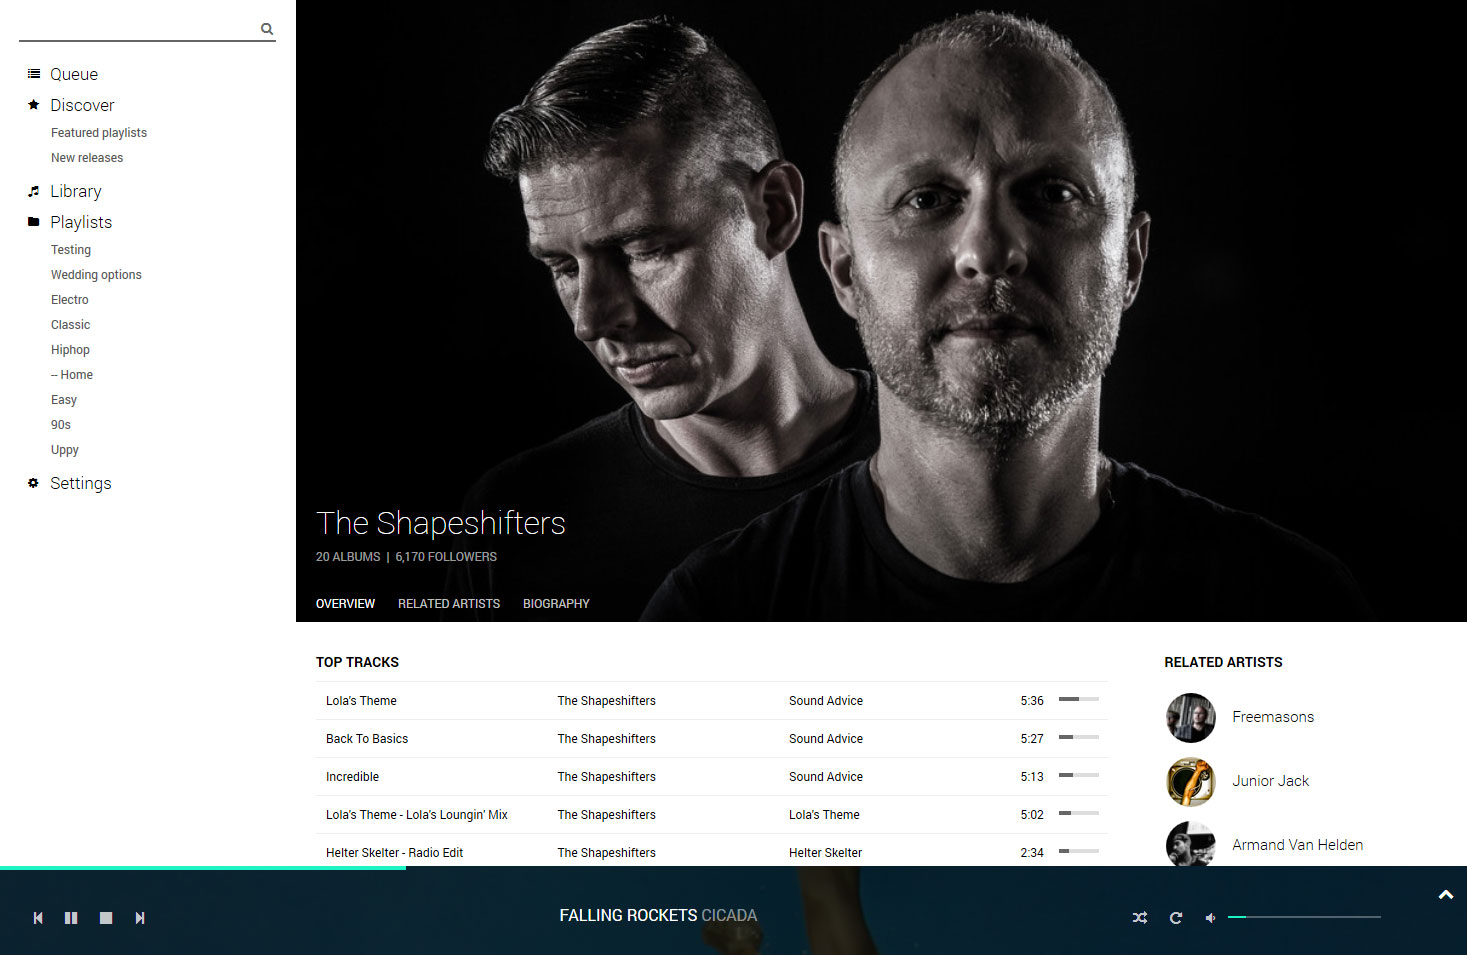
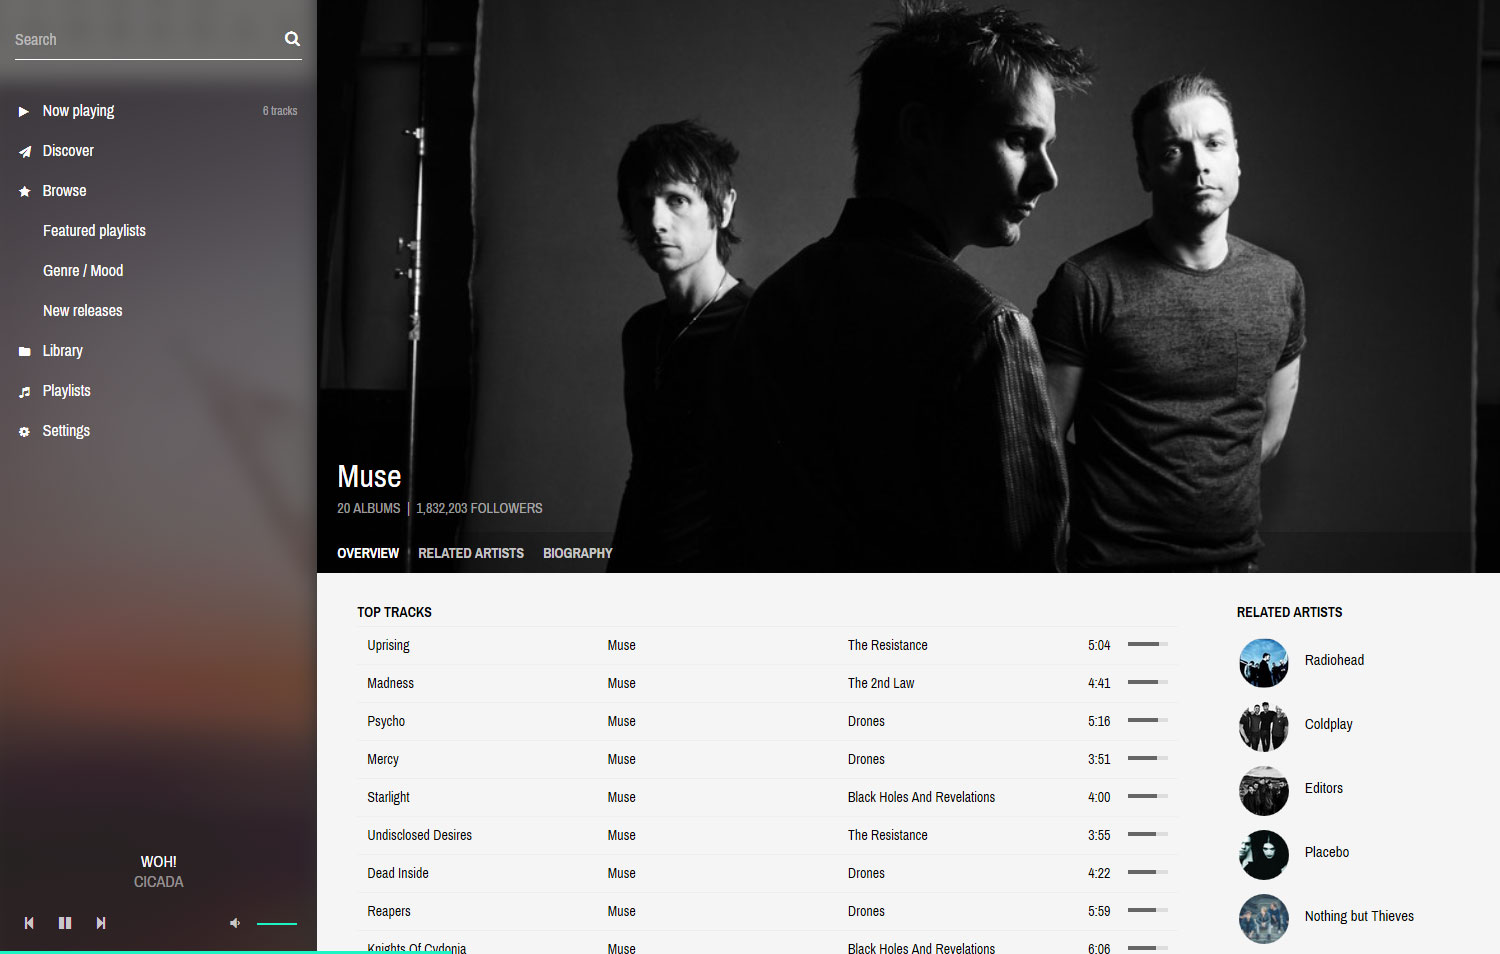
Documentation

diff --git a/app/settings/template.html b/app/settings/template.html
@@ -9,22 +9,158 @@
 	
 	<div class="settings">
 		
-		<div class="sub-page-navigation">
-			<a class="menu-item" ui-sref="settings.mopidy" ui-sref-active="active">
-				Mopidy
-			</a>
-			<a class="menu-item" ui-sref="settings.spotify" ui-sref-active="active">
-				Spotify
-			</a>
-			<a class="menu-item" ui-sref="settings.echonest" ui-sref-active="active">
-				Echonest
-			</a>
-			<a class="menu-item" ui-sref="settings.info" ui-sref-active="active">
-				Info
-			</a>
+		<div class="section mopidy">
+		
+			<h4 class="section-title underline">Mopidy Server</h4>
+
+			<div class="field">
+				<div class="label">Hostname</div>
+				<div class="input">
+					<input type="text" name="mopidyhost" placeholder="localhost" class="autosave" ng-model="settings.mopidyhost" ng-blur="saveField( $event )" />
+					<i class="fa fa-check autosave-success"></i>
+				</div>
+			</div>
+
+			<div class="field">
+				<div class="label">Port</div>
+				<div class="input">
+					<input type="text" name="mopidyport" placeholder="6680" class="autosave" ng-model="settings.mopidyport" ng-blur="SaveFields( $event )" />
+					<i class="fa fa-check autosave-success"></i>
+				</div>
+			</div>
+
+			<div class="field">
+				<div class="label">Consume mode</div>
+				<div class="input">
+					<span class="switch-button" ng-class="{on: settings.mopidyconsume}" ng-click="toggleSetting('mopidyconsume')"><span class="switch animate"></span></span>
+				</div>
+			</div>
+
+			<div class="clear-both"></div>		
 		</div>
 		
-        <div ui-view></div>
+		<!-- SECTION -->
+		
+		<div class="section info">
+		
+			<h4 class="section-title underline">Spotmop</h4>
+			
+			<div class="field">
+				<div class="label">Author</div>
+				<div class="input readonly">Built and maintained by James Barnsley (GitHub: <a href="https://github.com/jaedb" target="_blank">jaedb</a>)</div>
+				<div class="clear-both"></div>
+			</div>
+
+			<div class="field">
+				<div class="label">Current version</div>
+				<div class="input readonly">
+					<span class="spotmop-version" ng-bind="version.version"></span>
+					(<a class="spotmop-version" ng-bind="version.commit" target="_blank" href="https://github.com/jaedb/spotmop/commit/{{ version.commit }}"></a>)
+				</div>
+				<div class="clear-both"></div>
+			</div>
+
+			<div class="field shortcut-keys">
+				<div class="label">Keyboard shortcuts</div>
+				<div class="input">
+				
+					<span class="switch-button" ng-class="{on: settings.keyboardShortcutsEnabled}" ng-click="toggleSetting('keyboardShortcutsEnabled')"><span class="switch animate"></span></span>
+					
+					<div class="shortcuts" ng-show="settings.keyboardShortcutsEnabled">
+						<div class="row collapse-for-mobile">
+							<div class="col w20"><span class="flag grey"><i class="fa fa-minus"></i> Spacebar</span></div>
+							<div class="col w80">Play/pause</div>
+							<div class="clear-both"></div>
+						</div>
+						<div class="row collapse-for-mobile">
+							<div class="col w20"><span class="flag grey"><i class="fa fa-level-down fa-rotate-90"></i>&nbsp; Enter</span></div>
+							<div class="col w80">Play selected tracks</div>
+							<div class="clear-both"></div>
+						</div>
+						<div class="row collapse-for-mobile">
+							<div class="col w20"><span class="flag grey"><i class="fa fa-close"></i> Delete</span></div>
+							<div class="col w80">Delete selected tracks</div>
+							<div class="clear-both"></div>
+						</div>
+						<div class="row collapse-for-mobile">
+							<div class="col w20"><span class="flag grey">CTRL + <i class="fa fa-arrow-up"></i> Up arrow</span></div>
+							<div class="col w80">Volume up by 10%</div>
+							<div class="clear-both"></div>
+						</div>
+						<div class="row collapse-for-mobile">
+							<div class="col w20"><span class="flag grey">CTRL + <i class="fa fa-arrow-down"></i> Down arrow</span></div>
+							<div class="col w80">Volume down by 10%</div>
+							<div class="clear-both"></div>
+						</div>
+						<div class="row collapse-for-mobile">
+							<div class="col w20"><span class="flag grey">CTRL + <i class="fa fa-arrow-left"></i> Left arrow</span></div>
+							<div class="col w80">Previous track</div>
+							<div class="clear-both"></div>
+						</div>
+						<div class="row collapse-for-mobile">
+							<div class="col w20"><span class="flag grey">CTRL + <i class="fa fa-arrow-right"></i> Right arrow</span></div>
+							<div class="col w80">Next track</div>
+							<div class="clear-both"></div>
+						</div>
+					</div>
+				</div>
+				<div class="clear-both"></div>
+			</div>
+		</div>
+		
+		<!-- SECTION -->
+		
+		<div class="section advanced">
+		
+			<h4 class="section-title underline">Advanced</h4>
+
+			<div class="field">
+				<div class="label">Enable advanced settings</div>
+				<div class="input">
+					<span class="switch-button" ng-class="{on: settings.advancedMode}" ng-click="toggleSetting('advancedMode')"><span class="switch animate"></span></span>
+				</div>
+			</div>
+			
+			<div ng-if="settings.advancedMode">
+			
+				<div class="field">
+					<div class="label">Emulate touch device</div>
+					<div class="input">		
+						<span class="switch-button" ng-class="{on: settings.emulateTouchDevice}" ng-click="toggleEmulateTouchDevice()"><span class="switch animate"></span></span>
+					</div>
+				</div>
+
+				<div class="field mopidy-server" ng-if="settings.advancedMode">
+					<div class="label">Mopidy server</div>
+					<div class="input">
+						<a class="button primary" ng-click="startMopidyServer()" ng-class="{ disabled: !isSameDomainAsMopidy() }">
+							<i class="fa fa-check"></i>&nbsp; Start
+						</a>
+						<a class="button" ng-click="restartMopidyServer()" ng-class="{ disabled: !isSameDomainAsMopidy() }">
+							<i class="fa fa-refresh"></i>&nbsp; Restart
+						</a>
+						<a class="button" ng-click="stopMopidyServer()" ng-class="{ disabled: !isSameDomainAsMopidy() }">
+							<i class="fa fa-close"></i>&nbsp; Stop
+						</a>
+						<div ng-hide="isSameDomainAsMopidy()" class="red-text">
+							<br />
+							<br />
+							Cannot control Mopidy daemon unless Spotmop is running on the same machine as Mopidy
+						</div>
+					</div>
+				</div>
+
+				<div class="actions">
+					<confirmation-button
+						extra-classes="destructive"
+						default-text="Reset all settings"
+						confirmation-text="Are you sure?"
+						on-confirmation="resetSettings">
+					</confirmation-button>
+				</div>
+			
+			</div>
+		</div>
         
 	</div>
 	

diff --git a/app/settings/controller.js b/app/settings/controller.js
@@ -62,31 +62,21 @@ angular.module('spotmop.settings', [])
 		$scope.$parent.spotifyOnline = false;
         $rootScope.$broadcast('spotmop:notifyUser', {id: 'spotify-loggingout', message: "Logging you out"});
     };
-    $scope.toggleMopidyConsume = function(){
-    	if( $scope.settings.mopidyconsume ){
-            MopidyService.setConsume( false ).then( function(){
-                SettingsService.setSetting('mopidyconsume',false);
-            });
+	$scope.toggleSetting = function( setting ){
+    	if( SettingsService.getSetting(setting, false) ){
+            SettingsService.setSetting(setting, false);
+			
+			// handle server switches
+			if( setting == 'mopidyconsume' )
+				MopidyService.setConsume( false );
         }else{
-            MopidyService.setConsume( true ).then( function(){
-                SettingsService.setSetting('mopidyconsume',true);
-            });
+            SettingsService.setSetting(setting, true);
+			
+			// handle server switches
+			if( setting == 'mopidyconsume' )
+				MopidyService.setConsume( true );
         }
-    };
-    $scope.toggleKeyboardShortcuts = function(){
-    	if( SettingsService.getSetting('keyboardShortcutsEnabled',true) ){
-            SettingsService.setSetting('keyboardShortcutsEnabled',false);
-        }else{
-            SettingsService.setSetting('keyboardShortcutsEnabled',true);
-        }
-    };
-    $scope.toggleEmulateTouchDevice = function(){
-    	if( SettingsService.getSetting('emulateTouchDevice',true) ){
-            SettingsService.setSetting('emulateTouchDevice',false);
-        }else{
-            SettingsService.setSetting('emulateTouchDevice',true);
-        }
-    };
+	};
 	
 	// commands to parse to the mopidy server
 	$scope.startMopidyServer = function(){
@@ -158,18 +148,21 @@ angular.module('spotmop.settings', [])
 			$rootScope.requestsLoading++;	
             EchonestService.start();
         }
-        $scope.$watch(
-            // the value function
-            function(scope){
-                return scope.echonestOnline
-            },
-            // and the processor function
-            function(newState, oldState){
-                if( newState === true )
-                    $rootScope.requestsLoading--;
-            }
-        );
     };
+	
+	// listen for changes to the echonestOnline switch (ie we've just enabled it, now listen for success)
+	$scope.$watch(
+		// the value function
+		function( $scope ){
+			return $scope.echonestOnline
+		},
+		// and the processor function
+		function(newState, oldState){
+			if( newState === true )
+				$rootScope.requestsLoading--;
+		}
+	);
+	
 	$scope.deleteEchonestTasteProfile = function( confirmed ){
 		if( confirmed ){
 			$rootScope.$broadcast('spotmop:notifyUser', {

diff --git a/app/app.js b/app/app.js
@@ -173,13 +173,14 @@ angular.module('spotmop', [
 		},
 		scope: {
 			text: '@',
+			extraClasses: '@',
 			confirmationText: '@',
 			defaultText: '@',
 			onConfirmation: '@'
 		},
 		replace: true, 		// Replace with the template below
 		transclude: true, 	// we want to insert custom content inside the directive
-		template: '<span ng-bind="text" class="button" ng-class="{ destructive: confirming }"></span>'
+		template: '<span ng-bind="text" class="button {{ extraClasses }}" ng-class="{ destructive: confirming }"></span>'
 	};
 })
 

diff --git a/assets/css/core.css b/assets/css/core.css
@@ -549,7 +549,13 @@ h4 {
 h4.section-title {
 	text-transform: uppercase;
 	font-weight: 600;
-	padding-bottom: 10px;
+	padding-bottom: 5px;
+}
+
+.underline {
+	border-bottom: 1px solid #999999;
+	padding-bottom: 5px;
+	margin-bottom: 5px;
 }
 
 .body a {
@@ -1340,6 +1346,10 @@ body:not(.dragging):not(.touchDevice) .tracklist .track:not(.selected):hover {
  * Settings
  **/
 
+.settings > .section {
+	padding-bottom: 40px;
+}
+ 
 .actions {
     clear: both;
     padding: 40px 0 0 15%;

diff --git a/README.md b/README.md
@@ -27,23 +27,27 @@ Features
 Screenshots
 -----------
 
-![Overview](https://raw.githubusercontent.com/jaedb/spotmop/release/2.1/Screenshots/overview.jpg)
+![Overview](https://raw.githubusercontent.com/jaedb/spotmop/master/Screenshots/overview.jpg)
 
-![Discover](https://raw.githubusercontent.com/jaedb/spotmop/release/2.1/Screenshots/desktop-discover.jpg)
+![Browse](https://raw.githubusercontent.com/jaedb/spotmop/master/Screenshots/desktop-browse.jpg)
 
-![Artist](https://raw.githubusercontent.com/jaedb/spotmop/release/2.1/Screenshots/desktop-artist.jpg)
+![Artist](https://raw.githubusercontent.com/jaedb/spotmop/master/Screenshots/desktop-artist.jpg)
 
-![My Playlists](https://raw.githubusercontent.com/jaedb/spotmop/release/2.1/Screenshots/desktop-my-playlists.jpg)
+![Single playlist](https://raw.githubusercontent.com/jaedb/spotmop/master/Screenshots/desktop-playlist.jpg)
 
-![Single playlist](https://raw.githubusercontent.com/jaedb/spotmop/release/2.1/Screenshots/desktop-playlist.jpg)
+![Dragging tracks](https://raw.githubusercontent.com/jaedb/spotmop/master/Screenshots/desktop-dragging.jpg)
 
-![User profile](https://raw.githubusercontent.com/jaedb/spotmop/release/2.1/Screenshots/desktop-user-profile.jpg)
-
-![Settings](https://raw.githubusercontent.com/jaedb/spotmop/release/2.1/Screenshots/desktop-settings.jpg)
+![Settings](https://raw.githubusercontent.com/jaedb/spotmop/master/Screenshots/desktop-settings.jpg)
 
 
 Changelog
 --------
+
+*2.4
+* Redesign of interface (verical bars)
+* Basic implementation of artist discovery
+* Drag-and-drop to playlists
+* Performance improvement
 
 *2.1.2 (beta)*
 * Upstart script that allows start/stop/restart of Mopidy server from HTTP interface
